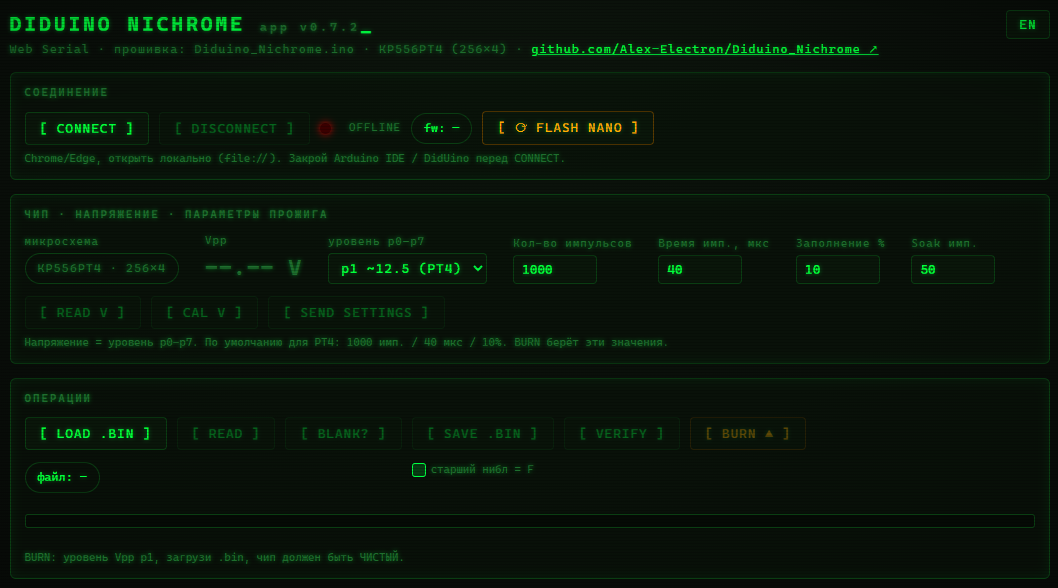
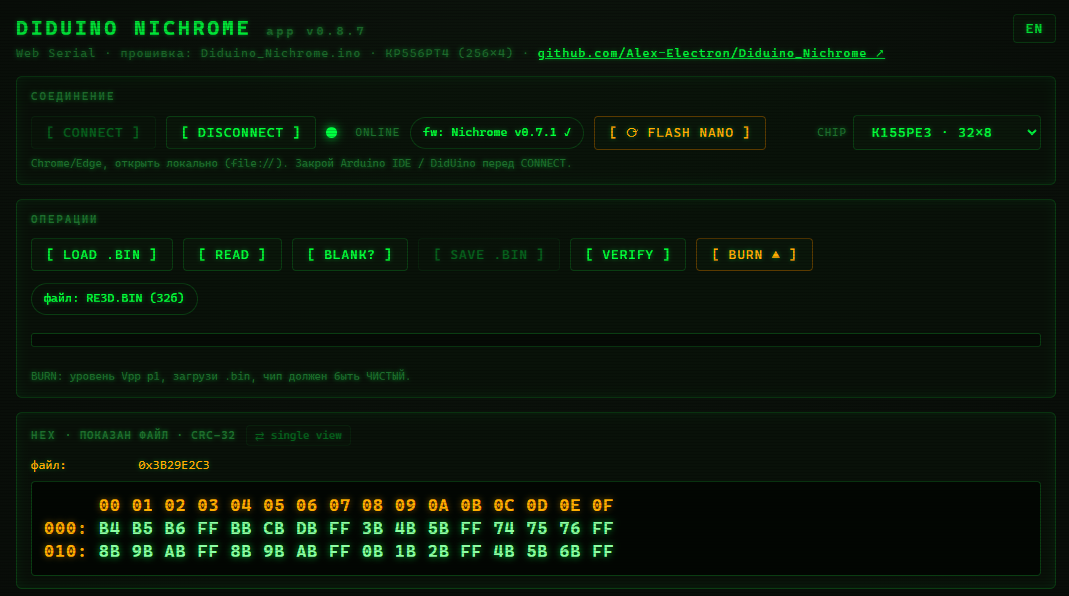
docs: document dual-chip support (КР556РТ4 + К155РЕ3); new screenshot; drop internal build script
- README (EN+RU): now describes both chips (КР556РТ4 256×4 and К155РЕ3 32×8),
  chip badge + firmware v0.7.1 badge, 'pick the chip' step, the H chip-select
  command, and per-chip voltage/soak notes.
- Replace the app screenshot with one showing К155РЕ3 selected (32×8, full-byte
  HEX, single CRC, fw v0.7.1).
- Untrack firmware/build-hex.ps1 (maintainer-only local script) and .gitignore it;
  drop it from the README repo-layout.

diff --git a/README.ru.md b/README.ru.md
@@ -2,7 +2,7 @@
 
 [English](./README.md) · **Русский**
 
-Прошивка и браузерный программатор для советского биполярного ППЗУ **КР556РТ4** (256×4 бита, однократно программируемое).
+Прошивка и браузерный программатор для советских биполярных ППЗУ **КР556РТ4** (256×4) и **К155РЕ3** (32×8) — однократно программируемых. Чип выбирается в приложении; прошивка ведёт каждый по-своему.
 
 Это продолжение открытого проекта **Diduino**. Железо то же самое; новое здесь — переписанное приложение, которое работает прямо в браузере, и алгоритм прожига, сделанный так, чтобы не убить чип, когда что-то идёт чуть-чуть не так.
 
@@ -10,9 +10,9 @@
 
 ![license](https://img.shields.io/badge/license-BSD--2--Clause-blue)
 ![platform](https://img.shields.io/badge/board-Arduino%20Nano-00979D?logo=arduino&logoColor=white)
-![chip](https://img.shields.io/badge/chip-KR556RT4%20256x4-success)
+![chip](https://img.shields.io/badge/chips-KR556RT4%20%7C%20K155RE3-success)
 ![ui](https://img.shields.io/badge/host-Web%20Serial-1aff80)
-![fw](https://img.shields.io/badge/firmware-v0.6.0-orange)
+![fw](https://img.shields.io/badge/firmware-v0.7.1-orange)
 
 **▶ Открыть прошивальщик:** <https://alex-electron.github.io/Diduino_Nichrome/diduino_nichrome.html> — работает в Chrome или Edge, ставить ничего не нужно. (GitHub Pages отдаёт по HTTPS, а это и нужно Web Serial.)
 
@@ -61,21 +61,25 @@ Diduino_Nichrome/
 ├── README.ru.md             # этот файл (русский)
 ├── LICENSE
 ├── firmware/
-│   ├── Diduino_Nichrome/
-│   │   └── Diduino_Nichrome.ino   # скетч Arduino (имя папки должно совпадать с .ino)
-│   └── build-hex.ps1              # компилирует оба MCU и встраивает прошивку в страницу ниже
+│   └── Diduino_Nichrome/
+│       └── Diduino_Nichrome.ino   # скетч Arduino (имя папки должно совпадать с .ino)
 └── docs/
     └── diduino_nichrome.html      # браузерный программатор + встроенная прошивка (GitHub Pages, HTTPS)
 ```
 
 ---
 
-## Чип: КР556РТ4
+## Чипы: КР556РТ4 и К155РЕ3
 
-Советское биполярное ППЗУ с нихромовыми перемычками, 256 слов по 4 бита, аналог 82S129.
+Два советских биполярных ППЗУ с нихромовыми перемычками. Нужный выбирается в селекторе **CHIP** в приложении.
+
+- **КР556РТ4** — 256 слов × 4 бита (аналог 82S129).
+- **К155РЕ3** — 32 слова × 8 бит (аналог 74188 / 82S23).
+
+Поведение перемычек у обоих одинаковое (однократное):
 
 - Перемычки **односторонние**: бит может перейти 0 → 1, но никогда обратно. Чистый чип читается как одни нули.
-- Для программирования нужно повышенное напряжение (~12.5 В) на ноге данных, при Vcc = 5 В.
+- Для программирования нужно повышенное напряжение (~11–12.5 В) при Vcc = 5 В. РТ4 жжётся при ~12.5 В (p1); К155РЕ3 капризна к экземплярам — старт ниже (~11.6 В, p0), и уровень можно поднимать ступенями для упрямых битов.
 - Чип одноразовый — на него ровно одна попытка. Смысл этого проекта в том, чтобы эта попытка удалась.
 
 ---
@@ -84,8 +88,9 @@ Diduino_Nichrome/
 
 1. **Открыть приложение.** Открой [прошивальщик по ссылке](https://alex-electron.github.io/Diduino_Nichrome/diduino_nichrome.html) в Chrome или Edge (либо `docs/diduino_nichrome.html` локально). Нажми CONNECT и выбери COM-порт платы.
 2. **Прошивка.** Если на плате не Diduino_Nichrome (или версия старая), операции блокируются, и приложение предлагает **[ ⟳ FLASH NANO ]** — прошивка заливается прямо из браузера через Web Serial (без Arduino IDE): читается сигнатура чипа и подбирается нужная сборка (ATmega328P или ATmega168). Можно и по-старому — залить `firmware/Diduino_Nichrome/Diduino_Nichrome.ino` из Arduino IDE самому. После этого в шапке появится версия прошивки, а текущее Vpp считается автоматически.
-3. **Читать или жечь.**
-   - `READ` считывает все 256 нибблов и показывает hex и CRC-32.
+3. **Выбор чипа.** Выбери КР556РТ4 или К155РЕ3 в селекторе **CHIP** (верхняя плашка). Если открыть `.bin` размером под другой чип — приложение предложит переключиться.
+4. **Читать или жечь.**
+   - `READ` считывает весь чип (256 нибблов для РТ4, 32 байта для РЕ3) и показывает hex и CRC-32.
    - `LOAD` открывает `.bin`; тот же hex-вид и CRC для файла.
    - `BURN` программирует чип. Запускается только если чип совместим и контрольная сумма передачи совпала, после чего сверяет каждую ячейку на плате.
 
@@ -114,14 +119,15 @@ Diduino_Nichrome/
 | Команда | Значение |
 |---------|----------|
 | `?` | помощь |
+| `H<n>` | выбор чипа: `H0` = КР556РТ4, `H1` = К155РЕ3 (`H` = запрос) |
 | `v` | прочитать напряжение программирования (Vpp) |
-| `p<n>` | уровень буста 0–7 (p1 ≈ 12.5 В для РТ4) |
+| `p<n>` | уровень буста 0–7 (РТ4 p1 ≈ 12.5 В, РЕ3 p0 ≈ 11.6 В; прожиг не опускается ниже дефолта чипа) |
 | `I<n>` | макс. импульсов на бит (по умолчанию 1000) |
 | `L<n>` | длительность импульса, мкс (по умолчанию 40) |
 | `D<n>` | заполнение %, задаёт паузу между импульсами (по умолчанию 10) |
-| `S<n>` | soak-импульсы после взятия бита (по умолчанию 50, потолок 128) |
-| `R` | прочитать весь чип, 256 байт |
-| `B` | прожиг: 256 байт, затем CRC-гейт, проверки и сверка |
+| `S<n>` | soak-импульсы после взятия бита (РТ4 50, РЕ3 8; потолок 128) |
+| `R` | прочитать весь чип (РТ4 256 нибблов, РЕ3 32 байта) |
+| `B` | прожиг: байты чипа, затем CRC-гейт, проверки и сверка |
 | `T<cV>` | калибровка Vpp по мультиметру, в EEPROM (сантивольты, напр. `T1250`; см. [Калибровку](#калибровка-напряжения)) |
 | `j` | безопасное состояние |
 
@@ -133,11 +139,11 @@ Diduino_Nichrome/
 
 | Параметр | Команда | По умолчанию | Примечание |
 |----------|---------|--------------|------------|
-| Уровень Vpp | `p` | p1 (~12.5 В) | прожиг выставляет сам |
+| Уровень Vpp | `p` | РТ4 p1 (~12.5 В) / РЕ3 p0 (~11.6 В) | дефолт чипа; можно поднять (эскалация РЕ3) |
 | импульсов/бит | `I` | 1000 | потолок; останавливается, когда бит взялся |
 | длит. импульса | `L` | 40 мкс | |
 | заполнение | `D` | 10 % | пауза = длит. × 100 / заполнение |
-| soak | `S` | 50 | окно даташита 40–100 |
+| soak | `S` | РТ4 50 / РЕ3 8 | РЕ3 чувствительнее к перегреву |
 
 ---
 

diff --git a/README.md b/README.md
@@ -2,7 +2,7 @@
 
 **English** · [Русский](./README.ru.md)
 
-Firmware and a browser-based programmer for the Soviet bipolar fuse-PROM **КР556РТ4** (256×4 bit, one-time programmable).
+Firmware and a browser-based programmer for the Soviet bipolar fuse-PROMs **КР556РТ4** (256×4) and **К155РЕ3** (32×8) — one-time programmable. Pick the chip in the app; the firmware drives each one correctly.
 
 This is a continuation of the open **Diduino** project. The hardware is unchanged; what is new here is a rewritten host application that runs in the browser and a burn routine built to not destroy a chip when something goes slightly wrong.
 
@@ -10,9 +10,9 @@ This is a continuation of the open **Diduino** project. The hardware is unchange
 
 ![license](https://img.shields.io/badge/license-BSD--2--Clause-blue)
 ![platform](https://img.shields.io/badge/board-Arduino%20Nano-00979D?logo=arduino&logoColor=white)
-![chip](https://img.shields.io/badge/chip-KR556RT4%20256x4-success)
+![chip](https://img.shields.io/badge/chips-KR556RT4%20%7C%20K155RE3-success)
 ![ui](https://img.shields.io/badge/host-Web%20Serial-1aff80)
-![fw](https://img.shields.io/badge/firmware-v0.6.0-orange)
+![fw](https://img.shields.io/badge/firmware-v0.7.1-orange)
 
 **▶ Open the programmer:** <https://alex-electron.github.io/Diduino_Nichrome/diduino_nichrome.html> — runs in Chrome or Edge, nothing to install. (GitHub Pages serves it over HTTPS, which is what Web Serial needs.)
 
@@ -61,22 +61,26 @@ Diduino_Nichrome/
 ├── README.ru.md             # Russian
 ├── LICENSE
 ├── firmware/
-│   ├── Diduino_Nichrome/
-│   │   └── Diduino_Nichrome.ino   # Arduino sketch (the folder name must match the .ino)
-│   └── build-hex.ps1              # compiles both MCUs and embeds the firmware into the page below
+│   └── Diduino_Nichrome/
+│       └── Diduino_Nichrome.ino   # Arduino sketch (the folder name must match the .ino)
 └── docs/
     └── diduino_nichrome.html      # the browser programmer + embedded firmware (GitHub Pages, HTTPS)
 ```
 
 ---
 
-## The chip: КР556РТ4
+## The chips: КР556РТ4 and К155РЕ3
 
-A Soviet bipolar PROM with nichrome fuse links, 256 words of 4 bits, an analog of the 82S129.
+Two Soviet bipolar PROMs with nichrome fuse links. Pick the one in the socket from the **CHIP** selector in the app.
+
+- **КР556РТ4** — 256 words × 4 bits (analog of the 82S129).
+- **К155РЕ3** — 32 words × 8 bits (analog of the 74188 / 82S23).
+
+Both share the same one-time fuse behaviour:
 
 - The fuses are **one-way**: a bit can go 0 → 1, never back. A blank chip reads all zeros.
-- Programming needs an elevated voltage (~12.5 V) on a data pin while Vcc stays at 5 V.
-- Because it is one-time, you get exactly one attempt per chip. The point of this project is to make that one attempt count.
+- Programming needs an elevated voltage (~11–12.5 V) while Vcc stays at 5 V. РТ4 burns at ~12.5 V (p1); К155РЕ3 is sample-sensitive — it starts lower (~11.6 V, p0) and the level can be raised step by step for stubborn bits.
+- Because they are one-time, you get exactly one attempt per chip. The point of this project is to make that one attempt count.
 
 ---
 
@@ -84,8 +88,9 @@ A Soviet bipolar PROM with nichrome fuse links, 256 words of 4 bits, an analog o
 
 1. **Open the app.** Open the [hosted programmer](https://alex-electron.github.io/Diduino_Nichrome/diduino_nichrome.html) in Chrome or Edge (or `docs/diduino_nichrome.html` locally). Click CONNECT and pick the board's COM port.
 2. **Firmware.** If the board isn't running Diduino_Nichrome (or it's too old), the operations stay locked and the app offers **[ ⟳ FLASH NANO ]** — it flashes the firmware straight from the browser over Web Serial (no Arduino IDE), reading the chip signature and picking the build that matches it (ATmega328P or ATmega168). You can instead upload `firmware/Diduino_Nichrome/Diduino_Nichrome.ino` from the Arduino IDE yourself. The header then confirms the firmware version, and the current Vpp is read automatically.
-3. **Read or burn.**
-   - `READ` pulls all 256 nibbles and shows them as hex, with a CRC-32.
+3. **Pick the chip.** Choose КР556РТ4 or К155РЕ3 in the **CHIP** selector (top bar). Loading a `.bin` whose size matches the other chip offers to switch for you.
+4. **Read or burn.**
+   - `READ` pulls the whole chip (256 nibbles for РТ4, 32 bytes for РЕ3) and shows them as hex, with a CRC-32.
    - `LOAD` opens a `.bin`; the same hex view and CRC appear for the file.
    - `BURN` programs the chip. It only goes ahead if the chip is compatible and the transfer checksum matches, then it verifies every cell on the board.
 
@@ -114,14 +119,15 @@ The burn is gated so that the usual ways to wreck a chip are caught before any v
 | Command | Meaning |
 |---------|---------|
 | `?` | help |
+| `H<n>` | select chip: `H0` = КР556РТ4, `H1` = К155РЕ3 (`H` = query) |
 | `v` | read the programming voltage (Vpp) |
-| `p<n>` | set boost level 0–7 (p1 ≈ 12.5 V for РТ4) |
+| `p<n>` | set boost level 0–7 (РТ4 p1 ≈ 12.5 V, РЕ3 p0 ≈ 11.6 V; burn floors at the chip default) |
 | `I<n>` | max pulses per bit (default 1000) |
 | `L<n>` | pulse width in µs (default 40) |
 | `D<n>` | duty %, sets the pause between pulses (default 10) |
-| `S<n>` | soak pulses after a bit takes (default 50, capped at 128) |
-| `R` | read the whole chip, 256 raw bytes |
-| `B` | burn: stream 256 bytes, then the CRC gate, checks and verify |
+| `S<n>` | soak pulses after a bit takes (РТ4 50, РЕ3 8; capped at 128) |
+| `R` | read the whole chip (РТ4 256 nibbles, РЕ3 32 bytes) |
+| `B` | burn: stream the chip's bytes, then the CRC gate, checks and verify |
 | `T<cV>` | calibrate Vpp to a meter reading, saved in EEPROM (centivolts, e.g. `T1250`; see [Voltage calibration](#voltage-calibration)) |
 | `j` | safe state |
 